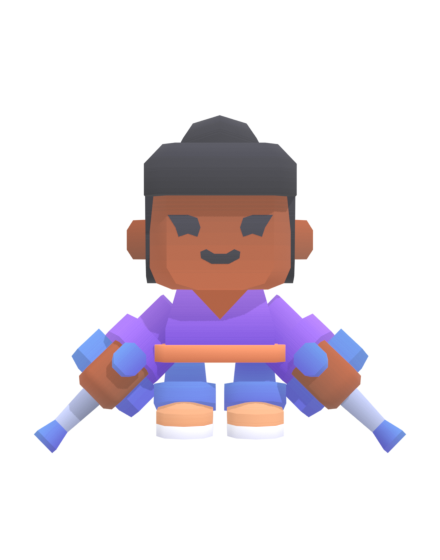
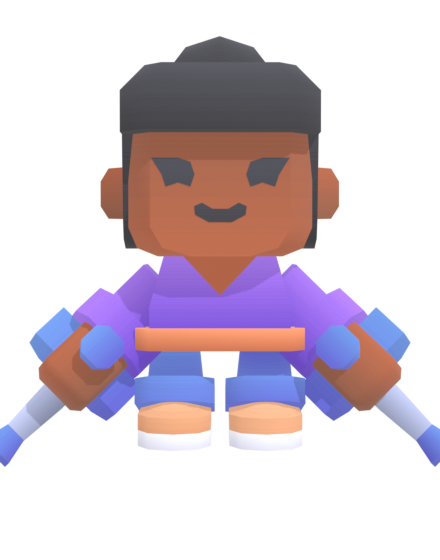
Cartun: Mari e a personagem que usa muletas (rotulo no painel, animacao walk e retrato reenquadrado)

diff --git a/src/jogo/avatars.js b/src/jogo/avatars.js
@@ -41,7 +41,7 @@ export const AVATARES = [
     { id: 'humano-ana', grupo: 'humanos', nome: 'Ana', modelo: '/modelos/avatares/ana.glb', retrato: '/modelos/avatares/ana.png', pele: '#5a3825', cabelo: { estilo: 'curto', cor: '#17100d' }, roupa: '#f08a3c', calca: '#0d2b4e', detalhe: '#ffffff', corpo: 'esguio', altura: 0.98, mobilidade: 'anda' },
     // Bloco "Cartun": personagens 3D cartunescos prontos (Kenney "Mini Characters", CC0), com esqueleto e animacao "walk".
     // Os campos de formas simples valem de plano B, como nos humanos.
-    { id: 'cartun-mari', grupo: 'cartun', nome: 'Mari', modelo: '/modelos/cartun/mari.glb', retrato: '/modelos/cartun/mari.png', alturaModelo: 1.5, clip: 'sprint', pele: '#b5683f', cabelo: { estilo: 'coque', cor: '#2b2b2f' }, roupa: '#8e5be0', calca: '#4a63d8', detalhe: '#f08a3c', corpo: 'medio', altura: 1, mobilidade: 'anda' },
+    { id: 'cartun-mari', grupo: 'cartun', nome: 'Mari', modelo: '/modelos/cartun/mari.glb', retrato: '/modelos/cartun/mari.png', alturaModelo: 1.5, clip: 'walk', rotulo: 'usa muletas', pele: '#b5683f', cabelo: { estilo: 'coque', cor: '#2b2b2f' }, roupa: '#8e5be0', calca: '#4a63d8', detalhe: '#f08a3c', corpo: 'medio', altura: 1, mobilidade: 'bengala' },
     { id: 'cartun-bia', grupo: 'cartun', nome: 'Bia', modelo: '/modelos/cartun/bia.glb', retrato: '/modelos/cartun/bia.png', alturaModelo: 1.5, clip: 'sprint', pele: '#f0c19b', cabelo: { estilo: 'coque', cor: '#d9703c' }, roupa: '#f2b705', calca: '#8e5be0', detalhe: '#ffffff', corpo: 'medio', altura: 1, mobilidade: 'anda' },
     { id: 'cartun-clara', grupo: 'cartun', nome: 'Clara', modelo: '/modelos/cartun/clara.glb', retrato: '/modelos/cartun/clara.png', alturaModelo: 1.5, clip: 'sprint', pele: '#e0a07a', cabelo: { estilo: 'coque', cor: '#5b6784' }, roupa: '#4a7bd8', calca: '#6b7280', detalhe: '#ffffff', corpo: 'medio', altura: 1, mobilidade: 'anda' },
     { id: 'cartun-dora', grupo: 'cartun', nome: 'Dora', modelo: '/modelos/cartun/dora.glb', retrato: '/modelos/cartun/dora.png', alturaModelo: 1.5, clip: 'sprint', pele: '#f0c19b', cabelo: { estilo: 'coque', cor: '#d9703c' }, roupa: '#7d8497', calca: '#4a4f57', detalhe: '#ffffff', corpo: 'medio', altura: 1, mobilidade: 'anda' },

diff --git a/src/server/configuracao.ts b/src/server/configuracao.ts
@@ -11,7 +11,7 @@ import { gravarConfiguracao, lerConfiguracao } from './db';
 const CHAVE = 'jogo';
 
 export type Catalogo = {
-    avatares: { id: string; nome: string; mobilidade: string; grupo: string | null; retrato: string | null }[];
+    avatares: { id: string; nome: string; mobilidade: string; grupo: string | null; retrato: string | null; rotulo: string | null }[];
     cenarios: { chave: string; nome: string; descricao: string; temMeios: boolean; avatares: string[] }[];
     meios: { chave: string; cenario: string; nome: string; descricao: string; avatares: string[] }[];
 };
@@ -27,7 +27,7 @@ const compativeis = (aceita: (mobilidade: string) => boolean) => ID_AVATARES.fil
 /** Tudo o que existe no jogo, para a tela de gerenciamento listar e avisar de combinacoes impossiveis. */
 export function montarCatalogo(): Catalogo {
     return {
-        avatares: AVATARES.map((a) => ({ id: a.id, nome: a.nome, mobilidade: a.mobilidade ?? 'anda', grupo: (a.grupo as string | undefined) ?? null, retrato: (a.retrato as string | undefined) ?? null })),
+        avatares: AVATARES.map((a) => ({ id: a.id, nome: a.nome, mobilidade: a.mobilidade ?? 'anda', grupo: (a.grupo as string | undefined) ?? null, retrato: (a.retrato as string | undefined) ?? null, rotulo: (a.rotulo as string | undefined) ?? null })),
         cenarios: CHAVES_CENARIOS.map((chave) => ({
             chave,
             nome: CENARIOS[chave].nome,

diff --git a/src/components/Admin.tsx b/src/components/Admin.tsx
@@ -322,7 +322,7 @@ export default function Admin({ configInicial, catalogo, textos, escolhaLogo, ve
                                         aria-label={`Nome de ${avatar.nome} na escolha de avatar`}
                                         onChange={(e) => definirNomeAvatar(avatar.id, e.target.value)}
                                     />
-                                    <small>{[ROTULO_MOBILIDADE[avatar.mobilidade] ?? avatar.mobilidade, bloco].filter(Boolean).join(' · ')}</small>
+                                    <small>{[avatar.rotulo ?? ROTULO_MOBILIDADE[avatar.mobilidade] ?? avatar.mobilidade, bloco].filter(Boolean).join(' · ')}</small>
                                 </span>
                             </div>
                         );

diff --git a/tests/configuracao.test.ts b/tests/configuracao.test.ts
@@ -164,7 +164,8 @@ describe('validacao', () => {
         const comum = montarCatalogo().avatares.find((a) => a.id === 'ana');
 
         expect(ana).toMatchObject({ nome: 'Ana', grupo: 'humanos', retrato: '/modelos/avatares/ana.png' });
-        expect(comum).toMatchObject({ grupo: null, retrato: null });
+        expect(comum).toMatchObject({ grupo: null, retrato: null, rotulo: null });
+        expect(montarCatalogo().avatares.find((a) => a.id === 'cartun-mari')).toMatchObject({ mobilidade: 'bengala', rotulo: 'usa muletas' });
     });
 
     it('a forca do turbo comeca em 1,9 e configuracoes antigas a recebem', () => {
